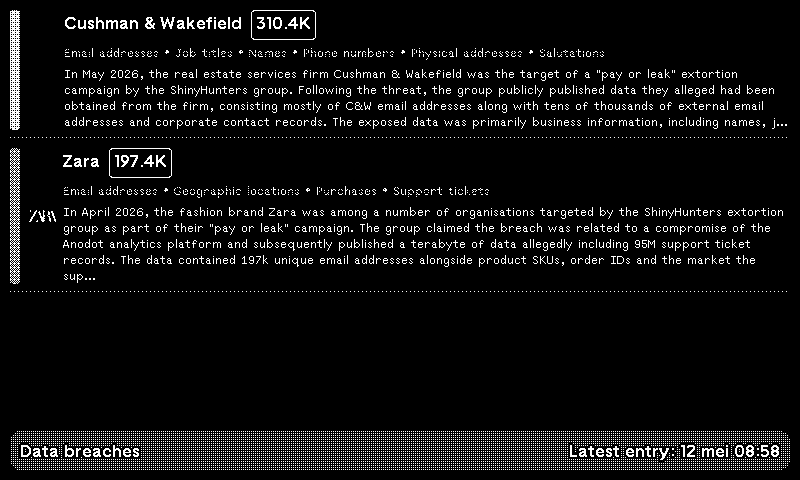
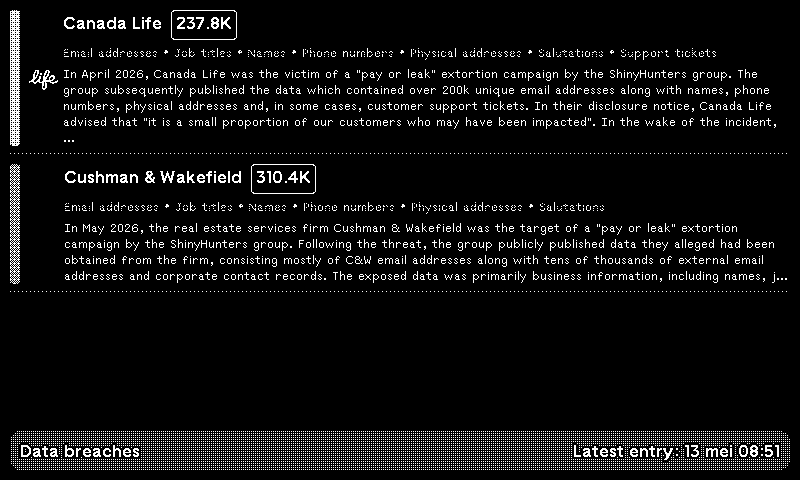
📊 Update plugin statistics in README

diff --git a/README.md b/README.md
@@ -3,7 +3,7 @@
 <!-- PLUGIN_STATS_START -->
 ## 🚀 TRMNL Plugin(s)
 
-*Last updated: 2026-05-12 08:44:54 UTC*
+*Last updated: 2026-05-13 08:48:31 UTC*
 
 
 ## <img src="assets/plugin-images/183668_icon.png" alt="Data Breaches icon" width="32"/> [Data Breaches](https://usetrmnl.com/recipes/183668)